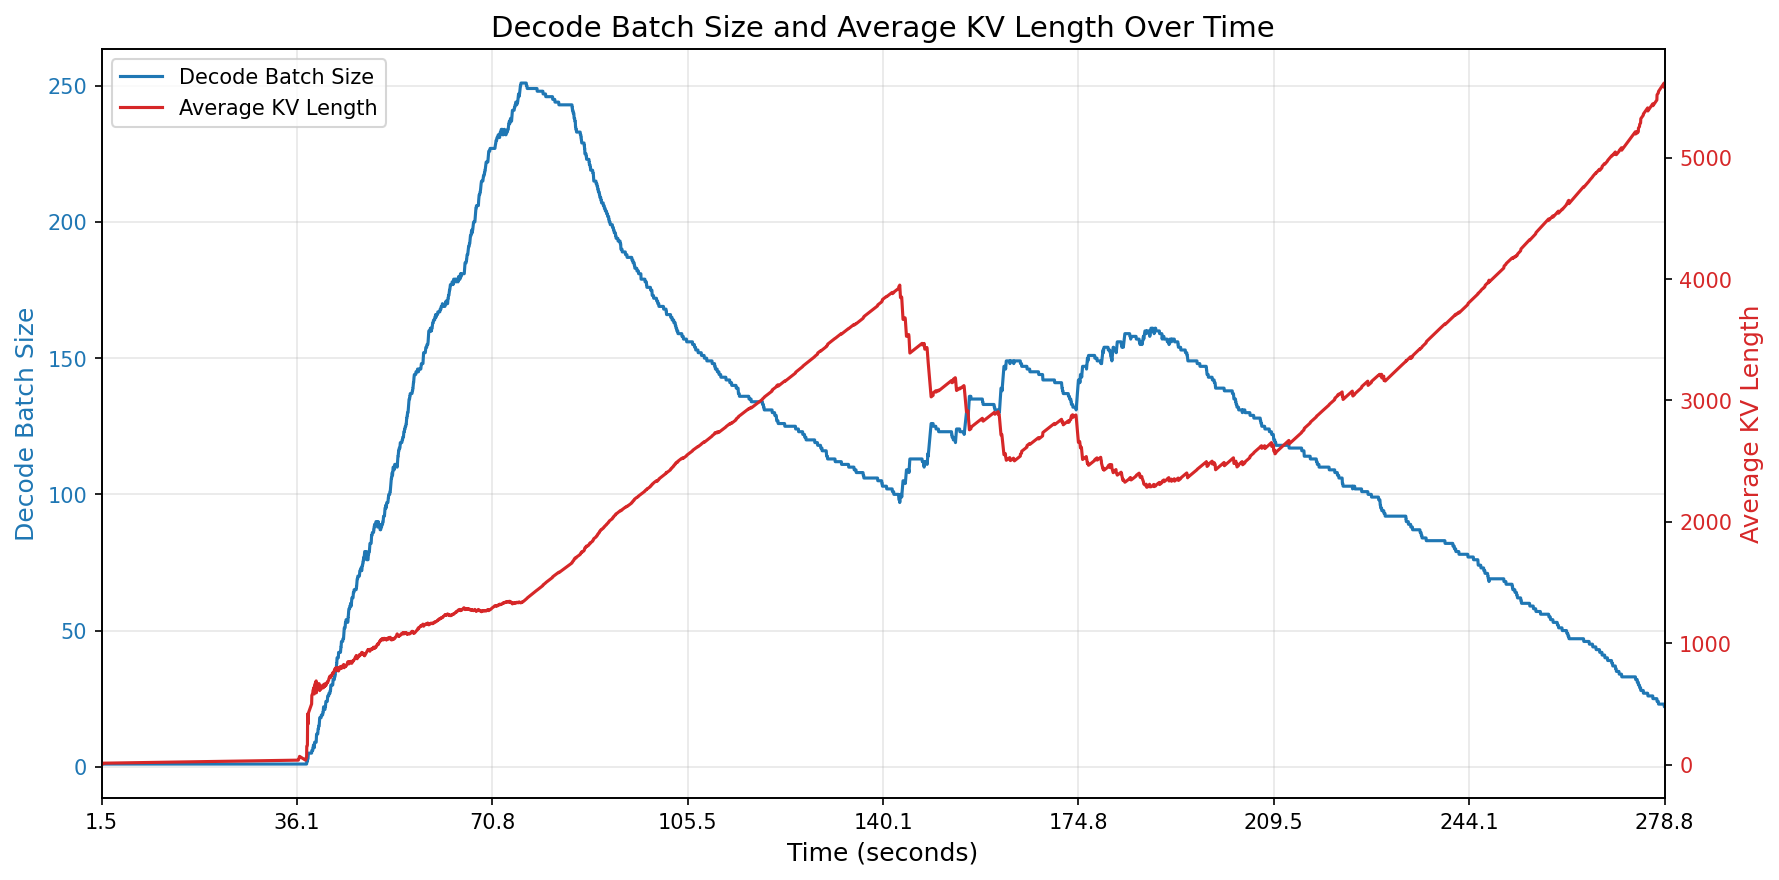
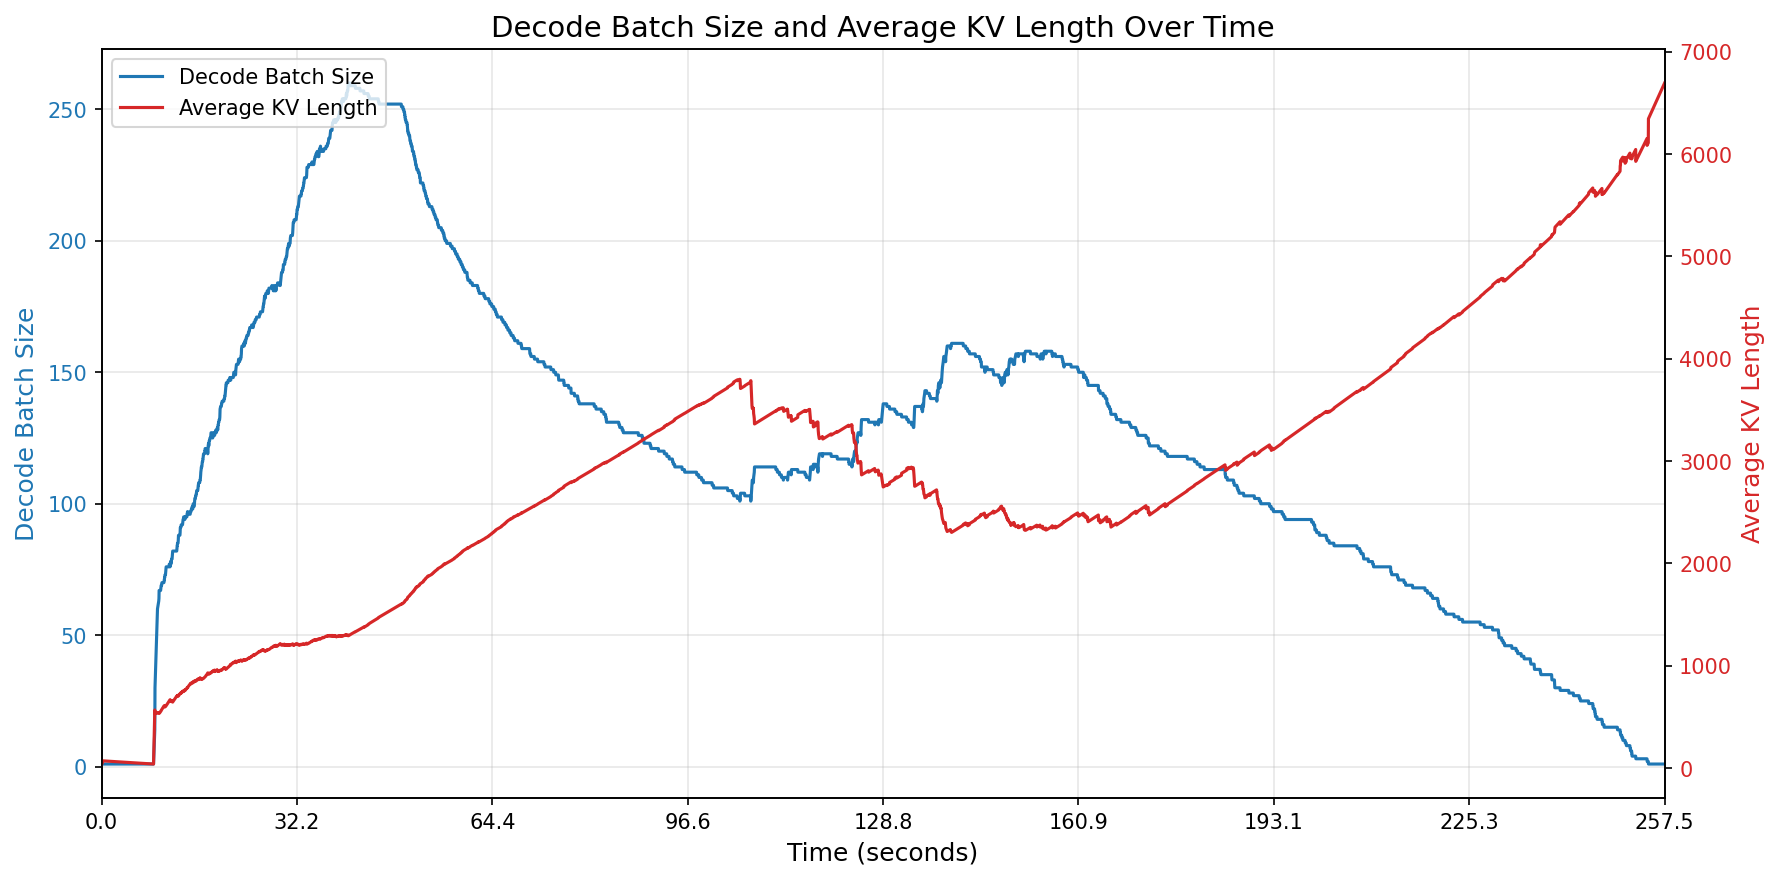
Add rem token budget logging

diff --git a/python/sglang/srt/managers/utils.py b/python/sglang/srt/managers/utils.py
@@ -229,8 +229,14 @@ def plot_chunk_size_trends(
     prefill_data = df[df["prefill_tokens"].notna()].copy()
     decode_data = df[df["decode_bs"].notna()].copy()
 
-    # Get retracted requests data (from decode data, as retractions happen during decode)
-    retracted_data = df[df["num_retracted_reqs"].notna()].copy()
+    # Get retracted / remaining-tokens data: any row with either num_retracted_reqs
+    # or cur_rem_tokens present.
+    if "cur_rem_tokens" in df.columns:
+        retracted_data = df[
+            df["num_retracted_reqs"].notna() | df["cur_rem_tokens"].notna()
+        ].copy()
+    else:
+        retracted_data = df[df["num_retracted_reqs"].notna()].copy()
 
     # Determine overall time range (min and max across all data)
     all_times = []
@@ -248,13 +254,34 @@ def plot_chunk_size_trends(
             print("Warning: No valid data found in CSV file")
         return False
 
-    time_min = min(all_times)
-    time_max = max(all_times)
+    # Find the first time with actual data (skipping the warmup batch at index 0).
+    if not prefill_data.empty:
+        # Skip the first prefill row, which is a warmup batch added by the server.
+        if len(prefill_data) > 1:
+            prefill_data = prefill_data.iloc[1:]
+        else:
+            prefill_data = prefill_data
+
+        # Use pandas to find the first non-zero prefill token after warmup.
+        first_nonzero = prefill_data[prefill_data["prefill_tokens"] > 0]
+        if not first_nonzero.empty:
+            first_batch_time = first_nonzero["time"].iloc[0]
+        else:
+            # Fallback to the minimum time across all data if everything is zero.
+            first_batch_time = min(all_times)
+    else:
+        # If there is no prefill data at all, fall back to the global minimum time.
+        first_batch_time = min(all_times)
+    time_min = first_batch_time
+    time_max = max(all_times) - time_min
+    prefill_data["time"] = prefill_data["time"] - time_min
+    decode_data["time"] = decode_data["time"] - time_min
+    retracted_data["time"] = retracted_data["time"] - time_min
 
     # Use fixed 9 ticks (8 intervals)
-    tick_interval = (time_max - time_min) / 8
+    tick_interval = time_max / 8
     x_ticks = []
-    current = time_min
+    current = 0
     for _ in range(9):
         x_ticks.append(current)
         current += tick_interval
@@ -263,30 +290,20 @@ def plot_chunk_size_trends(
 
     # Plot 1: Prefill tokens and new token ratio (dual y-axis)
     if not prefill_data.empty:
-        # Calculate mean prefill length
-        mean_prefill_len = prefill_data["prefill_tokens"].mean()
-        prefill_times = prefill_data["time"].tolist()
-        prefill_tokens = prefill_data["prefill_tokens"].tolist()
-        new_token_ratios = prefill_data["new_token_ratio"].tolist()
+        # Filter data using pandas: only keep rows where time >= time_min
+        prefill_data = prefill_data[prefill_data["time"] >= 0]
 
-        # Extend prefill data with zeros for times beyond the last prefill batch
-        if not decode_data.empty:
-            last_prefill_time = max(prefill_times) if prefill_times else time_min
-            decode_times = decode_data["time"].tolist()
-            # Find decode times that are beyond the last prefill time
-            extended_times = [t for t in decode_times if t > last_prefill_time]
-            if extended_times:
-                # Sort and add to prefill data
-                extended_times = sorted(set(extended_times))
-                prefill_times.extend(extended_times)
-                prefill_tokens.extend([0] * len(extended_times))
-                new_token_ratios.extend([0] * len(extended_times))
-                # Sort all data by time
-                combined = sorted(zip(prefill_times, prefill_tokens, new_token_ratios))
-                prefill_times, prefill_tokens, new_token_ratios = zip(*combined)
-                prefill_times = list(prefill_times)
-                prefill_tokens = list(prefill_tokens)
-                new_token_ratios = list(new_token_ratios)
+        if not prefill_data.empty:
+            # Calculate mean prefill length
+            mean_prefill_len = prefill_data["prefill_tokens"].mean()
+            prefill_times = prefill_data["time"].tolist()
+            prefill_tokens = prefill_data["prefill_tokens"].tolist()
+            new_token_ratios = prefill_data["new_token_ratio"].tolist()
+        else:
+            mean_prefill_len = 0
+            prefill_times = []
+            prefill_tokens = []
+            new_token_ratios = []
 
         fig1, ax1 = plt.subplots(figsize=(12, 6))
         fig1.patch.set_facecolor("white")
@@ -320,7 +337,7 @@ def plot_chunk_size_trends(
             label="Prefill Tokens",
         )
         ax1.tick_params(axis="y", labelcolor=color1)
-        ax1.set_xlim(time_min, time_max)
+        ax1.set_xlim(0, time_max)
         ax1.set_xticks(x_ticks)
         ax1.grid(True, alpha=0.3)
 
@@ -340,11 +357,20 @@ def plot_chunk_size_trends(
 
     # Plot 2: Decode batch size and average KV length (dual y-axis)
     if not decode_data.empty:
-        # Calculate mean decode KV length
-        mean_decode_kv_len = decode_data["avg_kv_length"].mean()
-        decode_times = decode_data["time"].tolist()
-        decode_bs = decode_data["decode_bs"].tolist()
-        avg_kv_lengths = decode_data["avg_kv_length"].tolist()
+        # Filter data using pandas: only keep rows where time >= time_min
+        decode_data = decode_data[decode_data["time"] >= 0]
+
+        if not decode_data.empty:
+            # Calculate mean decode KV length
+            mean_decode_kv_len = decode_data["avg_kv_length"].mean()
+            decode_times = decode_data["time"].tolist()
+            decode_bs = decode_data["decode_bs"].tolist()
+            avg_kv_lengths = decode_data["avg_kv_length"].tolist()
+        else:
+            mean_decode_kv_len = 0
+            decode_times = []
+            decode_bs = []
+            avg_kv_lengths = []
 
         fig2, ax2 = plt.subplots(figsize=(12, 6))
         fig2.patch.set_facecolor("white")
@@ -361,7 +387,7 @@ def plot_chunk_size_trends(
             label="Decode Batch Size",
         )
         ax2.tick_params(axis="y", labelcolor=color1)
-        ax2.set_xlim(time_min, time_max)
+        ax2.set_xlim(0, time_max)
         ax2.set_xticks(x_ticks)
         ax2.grid(True, alpha=0.3)
 
@@ -393,35 +419,78 @@ def plot_chunk_size_trends(
         plt.close(fig2)
         log_func(f"Decode chunk size trend plot saved to {filename}")
 
-    # Plot 3: Number of retracted requests
+    # Plot 3: Number of retracted requests (and remaining token budget if available)
     if not retracted_data.empty:
-        retracted_times = retracted_data["time"].tolist()
-        num_retracted = retracted_data["num_retracted_reqs"].tolist()
+        # Shifted time is already used, so just keep entries within the visible window.
+        retracted_data = retracted_data[retracted_data["time"] >= 0]
+
+        if retracted_data.empty:
+            return True
+
+        # Left-axis data: only rows where we actually retracted something.
+        retracted_nonzero = retracted_data[retracted_data["num_retracted_reqs"] > 0]
+        retracted_times = retracted_nonzero["time"].tolist()
+        num_retracted = retracted_nonzero["num_retracted_reqs"].tolist()
+
+        # Right-axis data: rows where we logged remaining token budget.
+        cur_rem_times = None
+        cur_rem_tokens = None
+        if "cur_rem_tokens" in retracted_data.columns:
+            budget_data = retracted_data[retracted_data["cur_rem_tokens"].notna()]
+            if not budget_data.empty:
+                cur_rem_times = budget_data["time"].tolist()
+                cur_rem_tokens = budget_data["cur_rem_tokens"].tolist()
 
         fig3, ax3 = plt.subplots(figsize=(12, 6))
         fig3.patch.set_facecolor("white")
 
-        color = "yellow"
+        # Left y-axis: number of retracted requests
+        color_left = "orange"
         ax3.set_xlabel("Time (seconds)", fontsize=12)
-        ax3.set_ylabel("Number of Retracted Requests", fontsize=12, color=color)
-        ax3.plot(
+        ax3.set_ylabel("Number of Retracted Requests", fontsize=12, color=color_left)
+        line_left = ax3.scatter(
             retracted_times,
             num_retracted,
-            color=color,
-            linewidth=1.5,
-            label="Retracted Requests",
+            color=color_left,
+            s=20,  # marker size (tweak if needed)
+            alpha=0.8,
+            label="Retracted Decode Requests",
         )
-        ax3.tick_params(axis="y", labelcolor=color)
-        ax3.set_xlim(time_min, time_max)
+        ax3.tick_params(axis="y", labelcolor=color_left)
+
+        # Right y-axis: remaining token budget if present
+        if cur_rem_tokens is not None and cur_rem_times is not None:
+            ax3_twin = ax3.twinx()
+            color_right = "tab:green"
+            ax3_twin.set_ylabel(
+                "Remaining prefill token budget", fontsize=12, color=color_right
+            )
+            line_right = ax3_twin.plot(
+                cur_rem_times,
+                cur_rem_tokens,
+                color=color_right,
+                linewidth=1.5,
+                label="Rem. prefill token budget",
+            )
+            ax3_twin.tick_params(axis="y", labelcolor=color_right)
+            lines = [line_left] + line_right
+        else:
+            lines = [line_left]
+
+        ax3.set_xlim(0, time_max)
         ax3.set_xticks(x_ticks)
         ax3.grid(True, alpha=0.3)
-        ax3.legend(loc="upper left")
-        ax3.set_title("Number of Retracted Requests Over Time", fontsize=14)
+        labels = [l.get_label() for l in lines]
+        ax3.legend(lines, labels, loc="upper left")
+        ax3.set_title(
+            "Number of Retracted Requests and Remaining prefilltoken budget Over Time",
+            fontsize=14,
+        )
 
         plt.tight_layout()
         filename = os.path.join(
             output_dir,
-            "chunk_size_trend_retracted_requests.png",
+            "chunk_size_trend_retracted.png",
         )
         plt.savefig(filename, dpi=150, bbox_inches="tight")
         plt.close(fig3)

diff --git a/python/sglang/srt/managers/scheduler.py b/python/sglang/srt/managers/scheduler.py
@@ -482,6 +482,7 @@ class Scheduler(
                             "decode_bs",
                             "avg_kv_length",
                             "num_retracted_reqs",
+                            "cur_rem_tokens",
                         ]
                     ).to_csv(self.chunk_size_csv_path, index=False)
                 except Exception:
@@ -1773,6 +1774,7 @@ class Scheduler(
                                         "decode_bs": decode_bs,
                                         "avg_kv_length": avg_kv_length,
                                         "num_retracted_reqs": self.num_retracted_reqs,
+                                        "cur_rem_tokens": None,
                                     }
                                 ]
                             )
@@ -1907,8 +1909,38 @@ class Scheduler(
                 if res == AddReqResult.NO_TOKEN:
                     current_time = time.perf_counter() - self.forward_init_time
                     print(
-                        f"Time: {current_time}, no token with real chunk size {adder.log_input_tokens}, rem_total_token_offset {adder.rem_total_token_offset}, running bs {running_bs}"
+                        f"Time: {current_time}, no token with real chunk size {adder.log_input_tokens}, rem_total_token_offset {adder.rem_total_token_offset}, cur_rem_tokens {adder.cur_rem_tokens}, running bs {running_bs}"
                     )
+
+                    # Also log cur_rem_tokens to the chunk size CSV so it can be plotted
+                    if self.plot_chunk_size and self.is_entry_rank:
+                        try:
+                            import pandas as pd
+
+                            new_row = pd.DataFrame(
+                                [
+                                    {
+                                        "time": current_time,
+                                        "prefill_tokens": None,
+                                        "new_token_ratio": None,
+                                        "decode_bs": None,
+                                        "avg_kv_length": None,
+                                        "num_retracted_reqs": None,
+                                        "cur_rem_tokens": adder.cur_rem_tokens,
+                                    }
+                                ]
+                            )
+                            new_row.to_csv(
+                                self.chunk_size_csv_path,
+                                mode="a",
+                                header=False,
+                                index=False,
+                            )
+                        except Exception as e:
+                            logger.warning(
+                                f"Failed to write cur_rem_tokens chunk size data: {e}"
+                            )
+
                     if self.enable_hierarchical_cache:
                         # Set batch_is_full after making sure there are requests that can be served
                         self.running_batch.batch_is_full = len(
@@ -2031,6 +2063,7 @@ class Scheduler(
                             "decode_bs": decode_bs_for_log,
                             "avg_kv_length": avg_kv_length_for_log,
                             "num_retracted_reqs": None,
+                            "cur_rem_tokens": None,
                         }
                     ]
                 )
